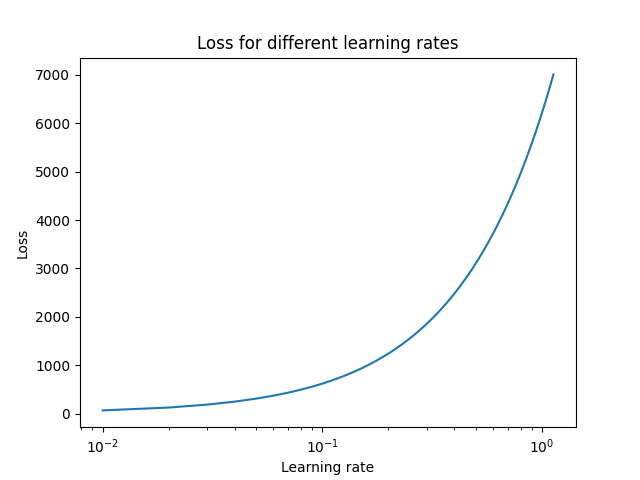
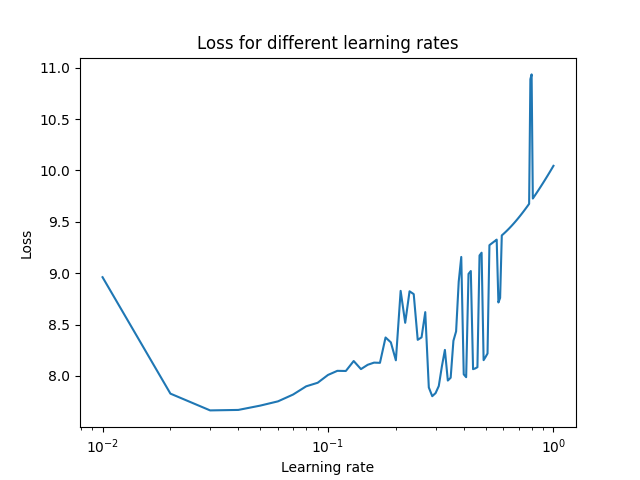
Rework assignment_03.py - Change hyperparameters of LR - Update figures - Decrease range of learning rates

diff --git a/assignment_03.py b/assignment_03.py
@@ -97,7 +97,7 @@ def calculate_error(data_points: np.ndarray, labels: np.ndarray, weights: np.nda
 
 
 def logistic_regression(data_points: np.ndarray, labels: np.ndarray, learning_rate: float,
-                        max_iterations: int = 100, stop_criteria: float = None) \
+                        max_iterations: int = 1000, stop_criteria: float = None) \
         -> Tuple[np.ndarray, np.ndarray, np.ndarray]:
     """
     This function performs logistic regression on the given data points. The function returns the final weights of the
@@ -122,7 +122,8 @@ def logistic_regression(data_points: np.ndarray, labels: np.ndarray, learning_ra
     prev_error = None
     for _ in range(max_iterations):
         # Calculate gradient
-        gradient = - 1/data_points.shape[1] * np.sum((-labels * data_points.T) / (1 + np.exp(labels * np.matmul(data_points, weights))), axis=1)
+        gradient = - 1/data_points.shape[1] * \
+                   np.sum((labels * data_points.T) / (1 + np.exp(labels * np.matmul(data_points, weights))), axis=1)
         # Normalize gradient
         gradient /= np.linalg.norm(gradient)
         # Update weights
@@ -153,7 +154,7 @@ def gaussian_discriminant_analysis(data_points: np.ndarray, labels: np.ndarray) 
 
     :param data_points: A numpy array of the data points.
     :param labels: A numpy array of the labels.
-    :return: A tuple of (mean, covariance) where every entry is a numpy array.
+    :return: None.
     """
     # Calculate mean and covariance matrix of data points
     mean = np.array([np.mean(data_points[labels == label], axis=0) for label in np.unique(labels)])
@@ -198,7 +199,7 @@ def main():
     X_train, X_test, y_train, y_test = train_test_split(data_points, labels, test_size=0.3, random_state=42)
 
     # Perform logistic regression
-    weights, errors, weights_per_step = logistic_regression(data_points=X_train, labels=y_train, learning_rate=1.0,
+    weights, errors, weights_per_step = logistic_regression(data_points=X_train, labels=y_train, learning_rate=0.1,
                                                             max_iterations=1000, stop_criteria=0.001)
     print(f'Final weights: {weights}')
     print(f'Final error: {errors[-1]}')
@@ -215,10 +216,10 @@ def main():
     print(f'Confusion matrix:\n{confusion_matrix(y_test, y_pred_bin)}')
 
     # Experiment with different learning rates
-    learning_rates = np.arange(0.01, 10, 0.01)
+    learning_rates = np.arange(0.01, 1.01, 0.01)
     errors = []
     for lr in tqdm(learning_rates):
-        weights, _, _ = logistic_regression(data_points=X_train, labels=y_train, learning_rate=lr, stop_criteria=0.001)
+        weights, _, _ = logistic_regression(data_points=X_train, labels=y_train, learning_rate=lr, stop_criteria=0.1)
         errors.append(calculate_error(X_test, y_test, weights))
 
     # Plot the loss for different learning rates
